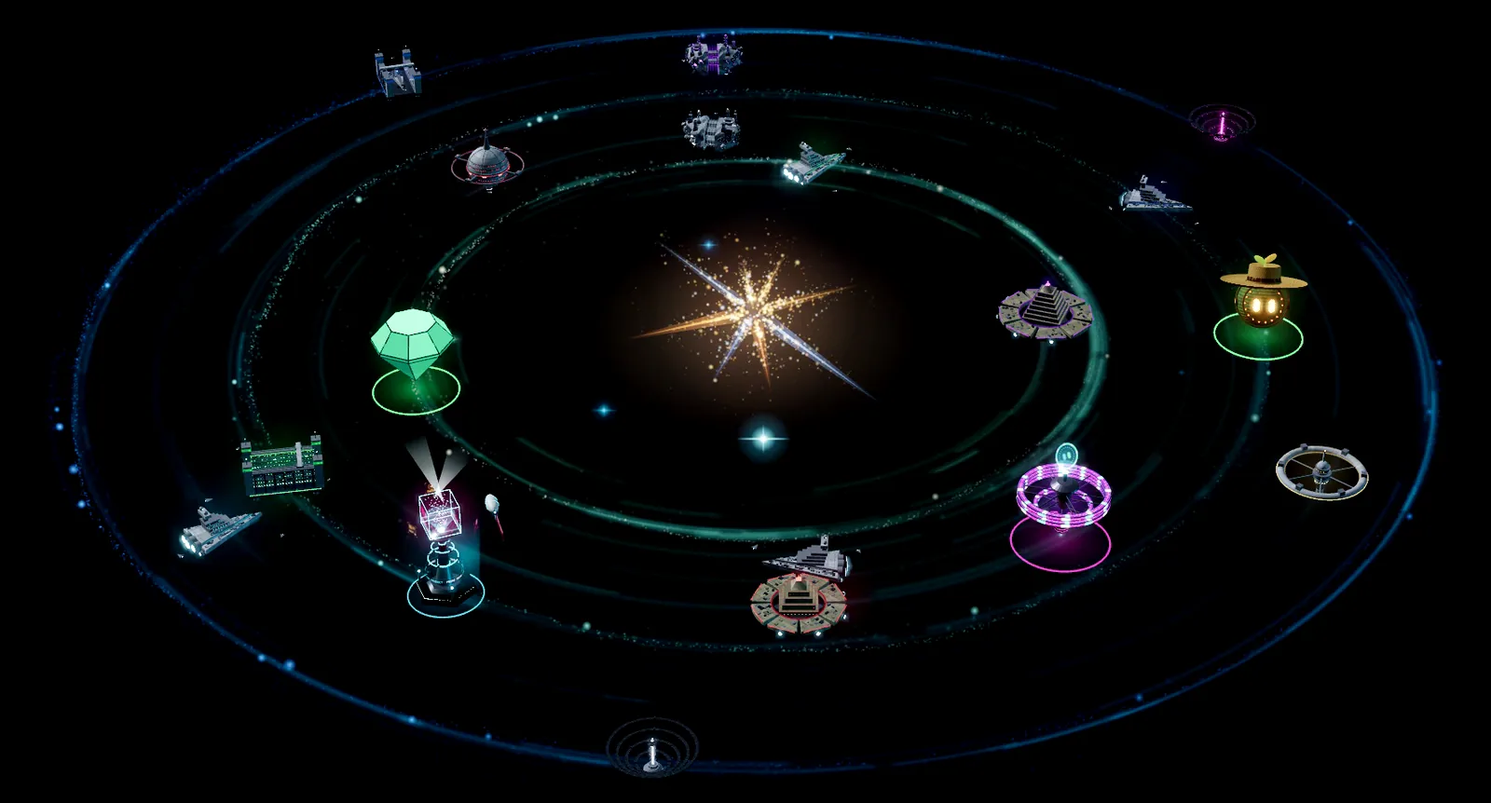
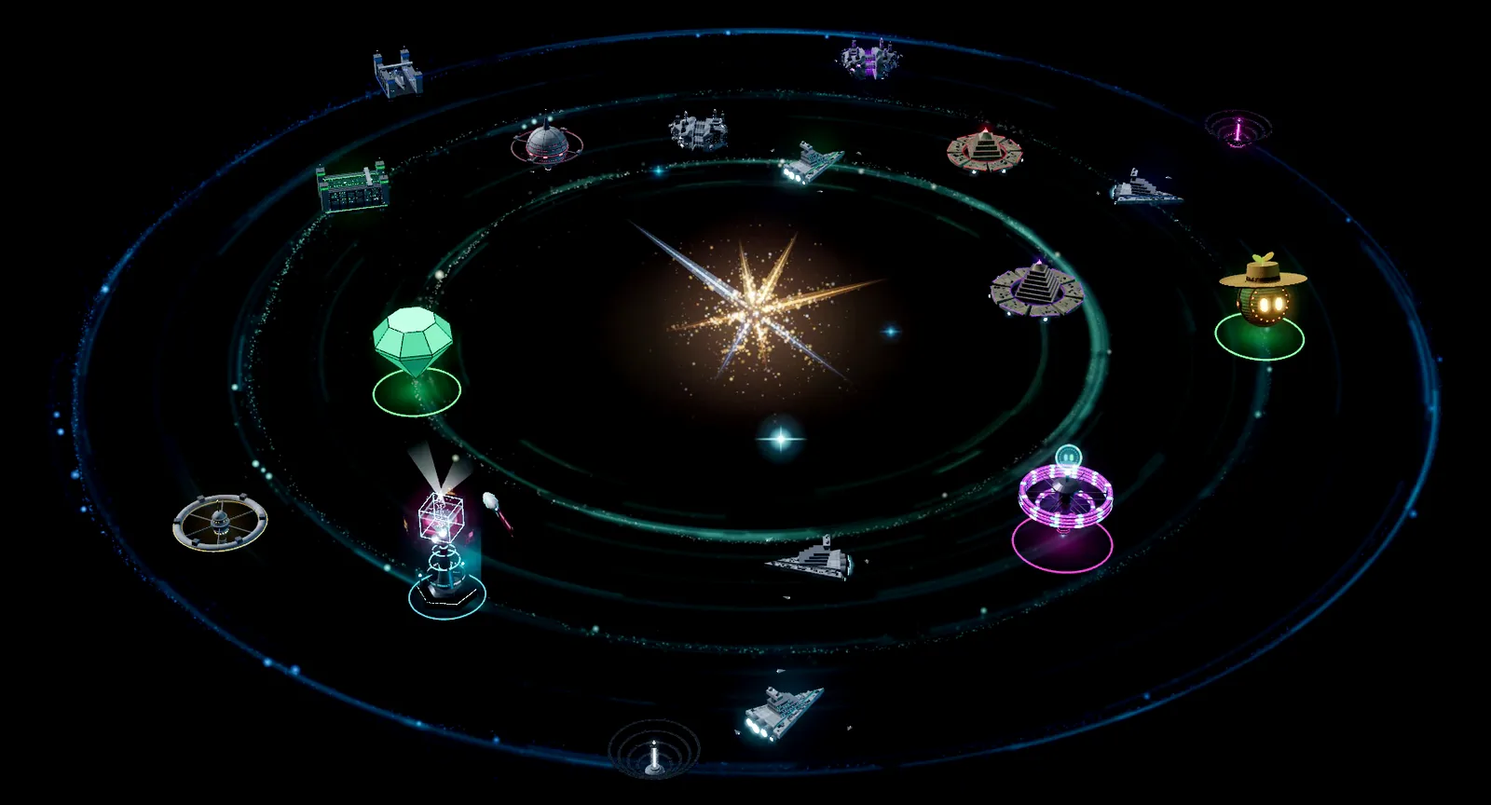
Cymetica Quest steps page, sixteenth take: the words say what the quest is, in the operator's sentences nearly as he wrote them ("step 1 odrazka musi rikat neco ze se ma pripojit do univerza a zacit bojovat o pointy s jinymi firmami ..."). Step 1 joins the Universe to battle other companies for poin
Effort: xhigh

diff --git a/outbox/quest-steps/quest.css b/outbox/quest-steps/quest.css
@@ -120,6 +120,19 @@ h1 b { font-weight: 400; }
 .pts li::after { content: ''; position: absolute; left: 43px; top: .85em; width: 7px; height: 7px; margin-top: -3.5px; border-radius: 50%; background: #f4fffb;
   box-shadow: 0 0 5px 2px rgba(0, 255, 136, .95), 0 0 16px 5px rgba(0, 207, 255, .4); }
 .pts li b { font-weight: 700; color: #ffffff; }
+/* what earns points, set apart ("vsude kde se vysvetluje to co vydelava pointy musi byt nejak spesl zvyrazneno"): a lit
+   green panel, its ray green, a "+ pts" tag on its corner; the text stays in line with the other points */
+.pts li.earn { margin-left: -18px; padding: 14px 22px 14px 84px; border-radius: 14px; color: #dfffee;
+  background: linear-gradient(90deg, rgba(0, 255, 136, .17), rgba(0, 255, 136, .05) 70%, rgba(0, 255, 136, .02));
+  box-shadow: inset 0 0 0 1px rgba(0, 255, 136, .55), 0 0 30px rgba(0, 255, 136, .16); animation: earn-glow 3.2s var(--ease) infinite; }
+@keyframes earn-glow { 0%, 100% { box-shadow: inset 0 0 0 1px rgba(0, 255, 136, .5), 0 0 22px rgba(0, 255, 136, .12); }
+  50% { box-shadow: inset 0 0 0 1px rgba(0, 255, 136, .9), 0 0 42px rgba(0, 255, 136, .3); } }
+.pts li.earn::before { left: 18px; top: calc(14px + .85em); background: linear-gradient(90deg, rgba(255, 255, 255, 0) 0, rgba(255, 255, 255, .95) 50%, rgba(255, 255, 255, 0) 100%) -24px 0 / 24px 100% no-repeat,
+    linear-gradient(90deg, rgba(0, 255, 136, 0), rgba(0, 255, 136, .85) 62%, #e6fff2); box-shadow: 0 0 9px rgba(0, 255, 136, .6); }
+.pts li.earn::after { left: 61px; top: calc(14px + .85em); }
+.pts li.earn b { color: var(--green); text-shadow: 0 0 16px rgba(0, 255, 136, .55), 0 2px 12px rgba(0, 0, 0, .9); }
+.pts li.earn .xp { position: absolute; right: 16px; top: 0; transform: translateY(-50%); padding: 3px 9px; border-radius: 6px; font: 800 11px/1.4 'JetBrains Mono';
+  font-style: normal; letter-spacing: .14em; text-transform: uppercase; color: #03140c; background: var(--green); box-shadow: 0 0 16px rgba(0, 255, 136, .6); }
 /* every product a step names, lit and linked ("vsude v textech musis zvyraznovat veci kterym das link") */
 .lk { position: relative; font-weight: 800; color: var(--cyan); white-space: nowrap; text-shadow: 0 0 14px rgba(0, 207, 255, .55), 0 2px 12px rgba(0, 0, 0, .9);
   background: linear-gradient(90deg, var(--cyan), var(--green)) 0 100% / 100% 1.5px no-repeat; padding-bottom: 2px; transition: color .25s, background-size .25s; }
@@ -555,11 +568,21 @@ h1 b { font-weight: 400; }
 .stage.uni .pic { width: 137%; margin-left: -28%; }
 .stage.uni .pic::before, .stage.duo .near::before { content: ''; position: absolute; z-index: -1; inset: -4% -2%; pointer-events: none;
   background: radial-gradient(50% 50% at 50% 50%, rgba(2, 4, 8, .62), rgba(2, 4, 8, .42) 55%, rgba(2, 4, 8, 0) 100%); }
-.stage.uni .sun { position: absolute; z-index: 2; left: 50.55%; top: 38.78%; width: 30.5%; transform: translate(-50%, -50%); pointer-events: none; }
+.stage.uni .sun { position: absolute; z-index: 2; left: 50.61%; top: 38.78%; width: 30.5%; transform: translate(-50%, -50%); pointer-events: none; }
+/* (sixteenth take: "nad nejakou lod dej tag YOUR COMPANY"): over your company's station, which the clip holds still
+   (record.py UV_SPREAD prints where), a stem down to it */
+.you-tag { position: absolute; z-index: 2; transform: translate(-50%, calc(-100% - 16px)); padding: 6px 12px; border-radius: 8px; pointer-events: none;
+  font: 800 12px/1.2 'JetBrains Mono'; letter-spacing: .14em; text-transform: uppercase; white-space: nowrap; color: #03140c; background: var(--green);
+  box-shadow: 0 0 24px rgba(0, 255, 136, .55); }
+.you-tag::after { content: ''; position: absolute; left: 50%; top: 100%; width: 2px; height: 16px; margin-left: -1px; background: linear-gradient(var(--green), rgba(0, 255, 136, 0)); }
 .stage.uni .sun img { width: 100%; }
 /* (fifteenth take, the board: "moc male marginy je to tak vse na sebe namackane a je to cele male"): a third bigger,
    its rows 60 px apart, room inside and round it */
-.lb-wrap { position: absolute; z-index: 3; right: -4.5%; bottom: -17%; top: auto; width: 452px; perspective: 1400px; perspective-origin: 100% 40%; }
+/* (sixteenth take: "musi byt sirsi ted tam neni zadna mezera mezi pointy a nazvy firem"): wider, each company on one
+   line, its points in a column of their own well clear of its name; on a narrower screen narrower, so it leaves the
+   sun alone, and under 590 px the points under the name again, a gap between */
+.lb-wrap { position: absolute; z-index: 3; right: -4.5%; bottom: -17%; top: auto; width: clamp(470px, 33vw, 660px); container-type: inline-size;
+  perspective: 1400px; perspective-origin: 100% 40%; }
 .lb { padding: 26px 22px 18px; border-radius: 26px; transform: rotateY(-13deg) rotateX(3deg); transform-origin: 100% 50%;
   background: linear-gradient(180deg, rgba(5, 10, 18, .72), rgba(4, 8, 15, .56)); transition: box-shadow .4s var(--ease); }
 .lb:has(.climb.won) { box-shadow: inset 0 1px 0 #ffffff, inset 0 -1px 0 rgba(0, 255, 136, .6), 0 0 65px rgba(0, 255, 136, .24); }
@@ -568,9 +591,13 @@ h1 b { font-weight: 400; }
 .lb .gh .tg { font-size: 12.5px; color: var(--cyan); }
 .lb .gh .dot { width: 10px; height: 10px; animation: live-pulse 2s var(--ease) infinite; }
 .climb { position: relative; margin-top: 18px; height: calc(6 * 60px); }
-.row { position: absolute; left: 0; right: 0; top: 0; height: 60px; display: grid; grid-template-columns: 34px 40px minmax(0, 1fr) auto; grid-template-rows: auto auto;
-  grid-template-areas: "rk bd nm pz" "rk bd pp pz"; align-content: center; align-items: center; column-gap: 14px; row-gap: 4px;
+.row { position: absolute; left: 0; right: 0; top: 0; height: 60px; display: grid; grid-template-columns: 34px 40px minmax(0, 1fr) 128px 112px;
+  grid-template-areas: "rk bd nm pp pz"; align-content: center; align-items: center; column-gap: 14px;
   padding: 0 16px; border-radius: 14px; transition: transform .7s var(--ease), background .4s, box-shadow .4s; }
+@container (max-width: 589px) {
+  .row { grid-template-columns: 34px 40px minmax(0, 1fr) auto; grid-template-rows: auto auto; grid-template-areas: "rk bd nm pz" "rk bd pp pz"; row-gap: 5px; }
+  .lb .row .pp { justify-content: flex-start; }
+}
 .row .rk { grid-area: rk; } .row .badge { grid-area: bd; } .row .nm { grid-area: nm; } .row .pp { grid-area: pp; } .row .pz { grid-area: pz; }
 .row + .row::before { content: ''; position: absolute; left: 16px; right: 16px; top: 0; height: 1px; background: linear-gradient(90deg, rgba(255, 255, 255, 0), rgba(255, 255, 255, .14), rgba(255, 255, 255, 0)); }
 .row .rk { font: 400 20px 'Archivo Black', sans-serif; color: var(--mute); text-align: center; background: none; filter: none; -webkit-background-clip: initial; background-clip: initial; }
@@ -586,7 +613,7 @@ h1 b { font-weight: 400; }
 .row .nm { position: static; transform: none; padding: 0; border: 0; background: none; box-shadow: none; text-transform: none; letter-spacing: 0;
   font: 700 16px Inter, sans-serif; color: var(--text); overflow: hidden; text-overflow: ellipsis; display: flex; align-items: center; gap: 8px; white-space: nowrap; }
 .row .nm em { flex: none; font: 800 9.5px 'JetBrains Mono'; font-style: normal; letter-spacing: .12em; text-transform: uppercase; padding: 2px 6px; border-radius: 5px; color: #03140c; background: var(--green); }
-.row .pp { display: flex; align-items: center; gap: 8px; font: 600 12.5px 'JetBrains Mono'; color: var(--mute); white-space: nowrap; }
+.row .pp { display: flex; align-items: center; justify-content: flex-end; gap: 8px; font: 600 12.5px 'JetBrains Mono'; color: var(--mute); white-space: nowrap; }
 .row .pp b { font: 800 14.5px 'JetBrains Mono'; color: var(--text); }
 .row .bar { position: relative; width: 52px; height: 4px; border-radius: 3px; background: rgba(30, 48, 80, .9); overflow: hidden; }
 .row .bar i { position: absolute; left: 0; top: 0; bottom: 0; border-radius: 3px; background: linear-gradient(90deg, var(--cyan), var(--blue)); }
@@ -688,6 +715,9 @@ h1 b { font-weight: 400; }
   .pts, .step.build .pts { margin-top: 24px; gap: 16px; }
   .pts li, .step.build .pts li { font-size: 14px; padding-left: 48px; line-height: 1.6; }
   .pts li::before { width: 32px; } .pts li::after { left: 29px; }
+  .pts li.earn { margin-left: -12px; padding: 12px 14px 12px 60px; }
+  .pts li.earn::before { left: 12px; top: calc(12px + .8em); } .pts li.earn::after { left: 41px; top: calc(12px + .8em); }
+  .pts li.earn .xp { right: 12px; font-size: 9.5px; }
   #s1 .pic, .step.build .stage .pic, .stage.uni .pic { width: 100%; margin-left: 0; }
   .crew-box { margin-top: 26px; padding: 16px; }
   .crew b { font-size: 34px; } .crew span { font-size: 14px; }
@@ -715,10 +745,14 @@ h1 b { font-weight: 400; }
   .lb-wrap { position: relative; right: auto; bottom: auto; top: auto; width: 100%; margin-top: 20px; perspective: none; }
   .lb { transform: none; padding: 16px 12px 12px; }
   .climb { width: 100%; margin-top: 8px; padding: 0; height: calc(6 * 48px); }
-  .row { left: 0; right: 0; top: 0; height: 48px; grid-template-columns: 24px 32px minmax(0, 1fr) auto; gap: 8px; padding: 0 8px; }
+  .row { left: 0; right: 0; top: 0; height: 48px; grid-template-columns: 24px 32px minmax(0, 1fr) auto; grid-template-rows: auto auto;
+    grid-template-areas: "rk bd nm pz" "rk bd pp pz"; gap: 2px 8px; padding: 0 8px; }
+  .row .pp { justify-content: flex-start; }
   .row .bar { display: none; }
   .row .rk { font-size: 17px; } .row .badge { width: 30px; height: 30px; } .row .nm { font-size: 13px; } .row .pp, .row .pp b { font-size: 11.5px; }
   .row .pz { font-size: 10px; }
+  .you-tag { font-size: 8.5px; padding: 3px 6px; border-radius: 5px; letter-spacing: .1em; transform: translate(-50%, calc(-100% - 9px)); }
+  .you-tag::after { height: 9px; }
   .final { padding: 56px 16px 120px; }
   .final-hd { margin-bottom: 28px; }
   .doors { grid-template-columns: minmax(0, 1fr); gap: 22px; }
@@ -731,5 +765,5 @@ h1 b { font-weight: 400; }
 }
 @media (prefers-reduced-motion: reduce) {
   .rv { opacity: 1; transform: none; transition: none; }
-  .pts li::before, .tube::before, .door .arr::before, .brand .qb-orbit, .brand .qb-star, #sun, .step.build .conduit i, .flow .fl, .pill i, .dp.cmd i, .lab-hud .st-dot, .lb .gh .dot { animation: none; }
+  .pts li::before, .pts li.earn, .tube::before, .door .arr::before, .brand .qb-orbit, .brand .qb-star, #sun, .step.build .conduit i, .flow .fl, .pill i, .dp.cmd i, .lab-hud .st-dot, .lb .gh .dot { animation: none; }
 }

diff --git a/outbox/quest-steps/index.html b/outbox/quest-steps/index.html
@@ -97,7 +97,7 @@
       <div class="kick">Step 01</div>
       <h2>Start an<br><span class="g">AI-native company.</span></h2>
       <ul class="pts">
-        <li><b>Your HQ</b> in the <a class="lk" data-link="universe">Universe</a>.</li>
+        <li><b>Join the <a class="lk" data-link="universe">Universe</a></b> and start battling other companies for&nbsp;points.</li>
       </ul>
       <div class="crew-box crystal">
         <p class="crew"><b data-figure="hq.departments"></b><span>departments</span><i></i><b data-figure="hq.agents"></b><span>AI agents, led by <em>NEXUS</em></span></p>
@@ -123,9 +123,8 @@
       <div class="kick">Step 02</div>
       <h2>Build your own<br><span class="g">products.</span></h2>
       <ul class="pts">
-        <li><b>Just say an idea.</b></li>
-        <li>Agents in your <b>Development</b> department take it to <a class="lk" data-link="bib">Build it Better</a>, where the <b>Cymetica pipeline</b> builds&nbsp;it.</li>
-        <li><b>Earn points</b> every time your products are used.</li>
+        <li><b>Turn your idea into real products</b> with the help of the <a class="lk" data-link="bib">Cymetica Pipeline</a>.</li>
+        <li class="earn"><b>Earn points</b> when your products are used by real&nbsp;users.<i class="xp">+ pts</i></li>
       </ul>
     </div>
     <div class="num" aria-hidden="true">02</div>
@@ -139,11 +138,9 @@
   <section id="s3" data-step="3" class="step">
     <div class="txt rv">
       <div class="kick">Step 03</div>
-      <h2>Market it.<br><span class="g">Bring in users.</span></h2>
+      <h2>Market it.<br><span class="g">Bring in more users.</span></h2>
       <ul class="pts">
-        <li>Agents in your <b>Marketing</b> department write briefs for your products on the <a class="lk" data-link="promo">Promo Market</a>.</li>
-        <li>Or show them in the <a class="lk" data-link="universe">Universe</a> on your own land.</li>
-        <li><b>More users, more points.</b></li>
+        <li><b>Use the <a class="lk" data-link="promo">Promo Market</a></b> to promote your products.</li>
       </ul>
     </div>
     <div class="num" aria-hidden="true">03</div>
@@ -171,11 +168,11 @@
   <section id="s4" data-step="4" class="step">
     <div class="txt rv">
       <div class="kick">Step 04</div>
-      <h2>Breed your hero agent<br>in your <span class="g">Quant Lab.</span></h2>
+      <h2>Breed your own<br>hero agent in <span class="g">Quant Lab.</span></h2>
       <ul class="pts">
-        <li>Agents in your <b>Quant Lab</b> keep searching for the most profitable strategies.</li>
-        <li><b>Equip your hero agent</b> with the best of them.</li>
-        <li><b>Put it into action</b> in the <a class="lk" data-link="casino">Agent Casino</a> and <b>earn&nbsp;points</b> every time it trades.</li>
+        <li><b>Researchers in Quant Lab</b> help you find the most profitable strategies for your trading agents.</li>
+        <li class="earn"><b>Earn more points</b> when those agents&nbsp;trade.<i class="xp">+ pts</i></li>
+        <li><b>Compete in agent tournaments</b> in the <a class="lk" data-link="casino">Agent Casino</a>, or trade on your&nbsp;own.</li>
       </ul>
     </div>
     <div class="num" aria-hidden="true">04</div>
@@ -188,16 +185,16 @@
   <section id="s5" data-step="5" class="step">
     <div class="txt rv">
       <div class="kick">Step 05</div>
-      <h2>Farm your points.<br>Climb the leaderboard.<br><span class="g">Earn monthly rewards.</span></h2>
+      <h2>Farm the<br><span class="g">points.</span></h2>
       <ul class="pts">
-        <li><b>Compete with other companies</b> in the <a class="lk" data-link="universe">Universe</a>.</li>
-        <li><b>Secure your top <span data-figure="slots"></span> slot</b> on the leaderboard.</li>
+        <li><b>Compete with other companies</b> in the <a class="lk" data-link="universe">Universe</a> to get into the <b>top <span data-figure="slots"></span> paid&nbsp;slots</b>.</li>
       </ul>
     </div>
     <div class="num" aria-hidden="true">05</div>
     <div class="stage uni rv">
-      <figure class="pic"><div class="clip xf" data-anim="universe" data-key="glow"><video muted playsinline preload="none" poster="pics/universe.webp" width="1600" height="862"><source src="clips/universe.webm" type="video/webm"></video></div>
-        <span class="sun" aria-hidden="true"><img src="pics/sun.webp" alt=""></span></figure>
+      <figure class="pic"><div class="clip xf" data-anim="universe" data-key="glow"><video muted playsinline preload="none" poster="pics/universe.webp" width="1600" height="864"><source src="clips/universe.webm" type="video/webm"></video></div>
+        <span class="sun" aria-hidden="true"><img src="pics/sun.webp" alt=""></span>
+        <span class="you-tag" style="left: 14.21%; top: 56.83%">Your company</span></figure>
       <div class="lb-wrap"><div class="lb crystal" aria-label="The leaderboard: your company climbs to the top">
         <div class="gh"><span class="dot"></span><b>Leaderboard</b><span class="tg">This month</span></div>
         <div class="climb" data-anim="climb"></div>

diff --git a/outbox/quant-lab-v2/ql.js b/outbox/quant-lab-v2/ql.js
@@ -323,12 +323,17 @@
     if (M.mode === 'sim') {
       var f = M.candidates[0].setup, b = baseOf(f), pa = ease(seg(p, 0, 0.42)), cx = W * (narrow ? 0.04 : 0.07), cy = narrow ? 80 : H * 0.46;
       var parts3 = [b[0] + ' ' + b[1]].concat(f.skills.map(function (k) { return SKILLS[k][0] + ' ' + SKILLS[k][1]; }));
+      // the assembly never runs into the grid beside it (the operator, 2026-11-01: "se to tam prekryva"; a screen
+      // 1300 to about 1480 wide put the third chip over the grid's first column): its type shrinks to fit, 11 px at least
+      ctx.font = '700 16px ' + MONO;
+      var tw = parts3.reduce(function (a, s) { return a + ctx.measureText(s).width; }, 0), room = gx - 36 - cx - parts3.length * 46,
+        fs = narrow || tw <= room ? 16 : Math.max(11, Math.floor(16 * room / tw));
       var from = [[-320, cy], [W * 0.5, -40], [W * 0.5, H + 40]], xs = cx;
       parts3.forEach(function (s, i) {
         var tx = xs, ty = cy, fx = from[i][0], fy = from[i][1];
-        ctx.font = '700 16px ' + MONO; var w = ctx.measureText(s).width + 20;
+        ctx.font = '700 ' + fs + 'px ' + MONO; var w = ctx.measureText(s).width + 20;
         var x = fx + (tx - fx) * pa, y = fy + (ty - fy) * pa;
-        chip(s, x, y, i ? C.blue : C.green, 16); xs += w + (pa > 0.98 ? 6 : 26);
+        chip(s, x, y, i ? C.blue : C.green, fs); xs += w + (pa > 0.98 ? 6 : 26);
       });
       if (p > 0.42) {
         once('snap', function () { burst(cx + 260, cy, C.green, 60, 8); shake = 10; });

diff --git a/outbox/quest-steps/record.py b/outbox/quest-steps/record.py
@@ -371,8 +371,45 @@ def market(b, seconds=12):
 # each on the map too ("v univerzu jeste pridej par firem navic"): QUEST.board's, with the stations its marks show, and
 # three more. Only our recording browser sees them (record.py universe): nothing is sent anywhere.
 EXTRA_COMPANIES = [('Giga Fund', 'vault', 'red'), ('Bull Club', 'pyramid', 'red'), ('Sigma Collective', 'tower', 'blue'),
-                   ('Quasar Fund', 'dome', 'green'), ('Vector Trading', 'tower', 'cyan'), ('Nova Works', 'orbital', 'gold'),
+                   ('Quasar Fund', 'dome', 'green'), ('Vector Trading', 'tower', 'cyan'), ('Your company', 'orbital', 'gold'),
                    ('Helix Partners', 'rift', 'purple'), ('Orbit Ventures', 'vortex', 'pink')]
+
+# sixteenth take ("zajisti aby na sobe nebyly 2 lode moc blizko nikde a nad nejakou lod dej tag YOUR COMPANY"): before
+# the recording every company is turned along its own lane, the least it takes, until each one is UV_SPACE times its
+# own and its neighbour's half-width from every other ship and product, now and through the clip (the products stay
+# where the live map has them). Yours is put first, held still (w 0) nearest UV_YOU_AT of the canvas, so the page's
+# tag (index.html .you-tag) stands over it the whole clip; its top is returned for that
+UV_SPACE, UV_YOU_AT = 2.4, (0.29, 0.64)   # the map's left, clear of the leaderboard down to a 1440 px screen
+UV_SPREAD = """([you, target, T, K]) => { const o = CO.uv, cam = o.camera, V = cam.position.constructor, el = o.renderer.domElement;
+  const W = el.clientWidth, H = el.clientHeight, right = new V().setFromMatrixColumn(cam.matrixWorld, 0);
+  const all = o.items.filter(it => (!it.kind || it.kind === 'product') && it.plot && it.plot.root.visible && it.orbit);
+  // where each one is now: its orbit's a is where it started, the clock has turned it on since (by w a second)
+  all.forEach(it => { const p = it.plot.root.position; it.__th = Math.atan2(p.x, p.z); });
+  const at = (it, th, h) => { const p = it.plot.root.parent.localToWorld(new V(it.orbit.r * Math.sin(th), it.size * (h || 0.45), it.orbit.r * Math.cos(th)));
+    const s = p.clone().project(cam), e = p.clone().addScaledVector(right, it.size * 0.5).project(cam);
+    return { x: (s.x + 1) / 2 * W, y: (1 - s.y) / 2 * H, rad: Math.hypot((e.x - s.x) / 2 * W, (e.y - s.y) / 2 * H) }; };
+  const ends = (it, th, w) => [at(it, th), at(it, th + w * T / 2), at(it, th + w * T)];
+  const placed = [], step = Math.PI * 2 / 180, log = [];
+  const room = (pts) => Math.min(Infinity, ...placed.flatMap(q => pts.map((p, k) => Math.hypot(p.x - q.pts[k].x, p.y - q.pts[k].y) / (p.rad + q.pts[k].rad))));
+  // stands at th now and turns on at w: its start moved by as much as it is moved now; w 0 holds it where it is put
+  const put = (it, th, w) => { it.orbit.a = w ? it.orbit.a + (th - it.__th) : th; it.orbit.w = w; placed.push({ it, th, pts: ends(it, th, w) }); };
+  const name = it => it.c.name || it.c.title, me = all.find(it => !it.kind && name(it) === you);
+  all.filter(it => it.kind === 'product').forEach(it => put(it, it.__th, it.orbit.w));
+  if (me) { let best = null;
+    for (let k = 0; k < 180; k++) { const th = k * step, p = at(me, th), d = Math.hypot(p.x / W - target[0], p.y / H - target[1]);
+      if (room([p, p, p]) >= K && (!best || d < best.d)) best = { th, d }; }
+    put(me, best ? best.th : me.__th, 0);
+    // the page's tag over it is in the way too: a ship as wide as the tag, where the tag stands
+    const tag = Object.assign(at(me, placed[placed.length - 1].th, 2.4), { rad: 70 }); placed.push({ it: me, pts: [tag, tag, tag] }); }
+  all.filter(it => !it.kind && it !== me).sort((a, b) => (a.c.id >= 90000) - (b.c.id >= 90000)).forEach(it => {
+    const th0 = it.__th, w = it.orbit.w; let best = null;
+    for (let k = 0; k < 180; k++) { const d = (k % 2 ? 1 : -1) * Math.ceil(k / 2) * step, r = room(ends(it, th0 + d, w));
+      if (r >= K) { best = { th: th0 + d, r }; break; } if (!best || r > best.r) best = { th: th0 + d, r }; }
+    if (best.th !== th0) log.push(name(it) + ' ' + (best.th - th0).toFixed(2) + ' rad'); put(it, best.th, w); });
+  let worst = Infinity;
+  placed.forEach((q, i) => placed.forEach((u, j) => { if (j > i && q.it !== u.it) worst = Math.min(worst, ...q.pts.map((p, k) => Math.hypot(p.x - u.pts[k].x, p.y - u.pts[k].y) / (p.rad + u.pts[k].rad))); }));
+  const mine = me && placed.find(q => q.it === me), top = mine && at(me, mine.th, 1.2);
+  return { moved: log, closest: +worst.toFixed(2), you: mine && [top.x / W, top.y / H] }; }"""
 
 
 # fourteenth take ("si uplne znicil tu obeznou drahu ... ma byt vetsi mnohem ten vesmir a ta tabule v nem jakoby
@@ -414,14 +451,18 @@ def universe(b, seconds=20, dsf=1.5):
     page.evaluate("() => { const o = CO.uv; o.sky.visible = false; o.scene.background = new o.scene.background.constructor(0x000000); }")
     page.evaluate(UV_CENTER, [UV_BACK, UV_UP])
     time.sleep(2.5)
+    spread = page.evaluate(UV_SPREAD, ['Your company', list(UV_YOU_AT), seconds + 2, UV_SPACE])
+    print('universe: moved along their lanes', spread['moved'], 'the closest two', spread['closest'], 'half-widths apart')
+    time.sleep(1.5)
     sel = '#uv3d canvas'
     print('universe (live): companies', page.evaluate("() => CO.uv.items.filter(it => !it.kind).length"),
           'products', page.evaluate("() => CO.uv.items.filter(it => it.kind === 'product').length"))
     box, size = lit_box(page, sel, 0.035)
     sun = page.evaluate("""() => { const p = CO.uv.heartAt.clone().project(CO.uv.camera); return [(p.x + 1) / 2, (1 - p.y) / 2]; }""")
     x, y, w, h = box
-    print('universe: canvas', size, 'the map', box, 'aspect', f'{w} / {h}',
-          'the sun at (% of the clip)', round((sun[0] * size[0] - x) / w * 100, 2), round((sun[1] * size[1] - y) / h * 100, 2))
+    pct = lambda pt: (round((pt[0] * size[0] - x) / w * 100, 2), round((pt[1] * size[1] - y) / h * 100, 2))
+    print('universe: canvas', size, 'the map', box, 'aspect', f'{w} / {h}', 'the sun at (% of the clip)', pct(sun),
+          'over your company', spread['you'] and pct(spread['you']))
     record(page, sel, seconds, 'universe', bps=24_000_000, crop=box, width=1600)
     page.close()
     frame_poster('universe', 1.0)

diff --git a/outbox/quest-steps/README.md b/outbox/quest-steps/README.md
@@ -4,7 +4,7 @@ Asked for by the operator on 2026-10-29: a new page for the Cymetica Quest, expl
 quest, win up to 500,000 ET10 every month), then how. It stands beside `outbox/quest` (the scroll film, still on the 5 %
 revenue share), which is unchanged.
 
-## Fifteen takes
+## Sixteen takes
 
 1. **a1cb3cf5, 7/10**: real screenshots, each in a glass browser frame. "Nedavej to do panelu ... at to splyva."
 2. **60da77f5, 4/10**: everything full screen, a flight in to the sun, the orbit with its companies. "Predchozi verze
@@ -28,7 +28,19 @@ revenue share), which is unchanged.
 11. **b7891eca** (2026-10-31): deep space behind the whole page with twinkling stars (as Gemini's guide has it), the
    first screen's words big on the left, the top a quest track with no panel, hexagon bullets, the Promo Market's cube
    turning, fourteen companies in the Universe. "To uz je husty 1 screen."
-15. **This one** (2026-10-31): **Gemini's fork of this page, adopted**. Antigravity copied this folder at 2201936a
+16. **This one** (2026-11-01), the words made to say what the quest is, his sentences nearly as he wrote them:
+   step 1 joins the Universe to battle other companies for points; step 2 turns your idea into real products with the
+   Cymetica Pipeline (the link to Build it Better) and earns points when real users use them; step 3 "Market it. Bring
+   in more users." with the Promo Market alone, nothing of departments or points; step 4 "Breed your own hero agent in
+   Quant Lab.", its researchers finding strategies, more points when those agents trade, tournaments in the Agent
+   Casino or trading alone; step 5 "Farm the points.", into the top 3 paid slots. What earns points ("vsude kde se
+   vysvetluje to co vydelava pointy musi byt nejak spesl zvyrazneno") is a lit green panel with a "+ pts" tag. The
+   leaderboard wider (660 px, a third of the screen below 2000), each company on one line, its points a column apart
+   from its name. The Quant Lab's BUILD no longer runs its setup into the grid (outbox/quant-lab-v2 ql.js: the chips
+   shrink to fit between 1300 and about 1480 px, the width the clip is filmed at). Step 5's Universe: every company
+   turned along its lane until no two ships stand near each other (record.py UV_SPREAD), yours held still on the
+   map's left with a YOUR COMPANY tag over it.
+15. **Gemini's fork of this page, adopted** (2026-10-31). Antigravity copied this folder at 2201936a
    (the fourteenth take's first round) to `Downloads\cymetica\outbox\quest-steps` and served it on 8765; the operator:
    "NAD TEBOU VYHRAVA ma vse lepsi, jen ten step s market it bych zmenil". Its index.html, quest.css, quest.js,
    anim.js and scenes/tools.html are here byte for byte (its last writes 19:06 to 20:53; read and written, then
